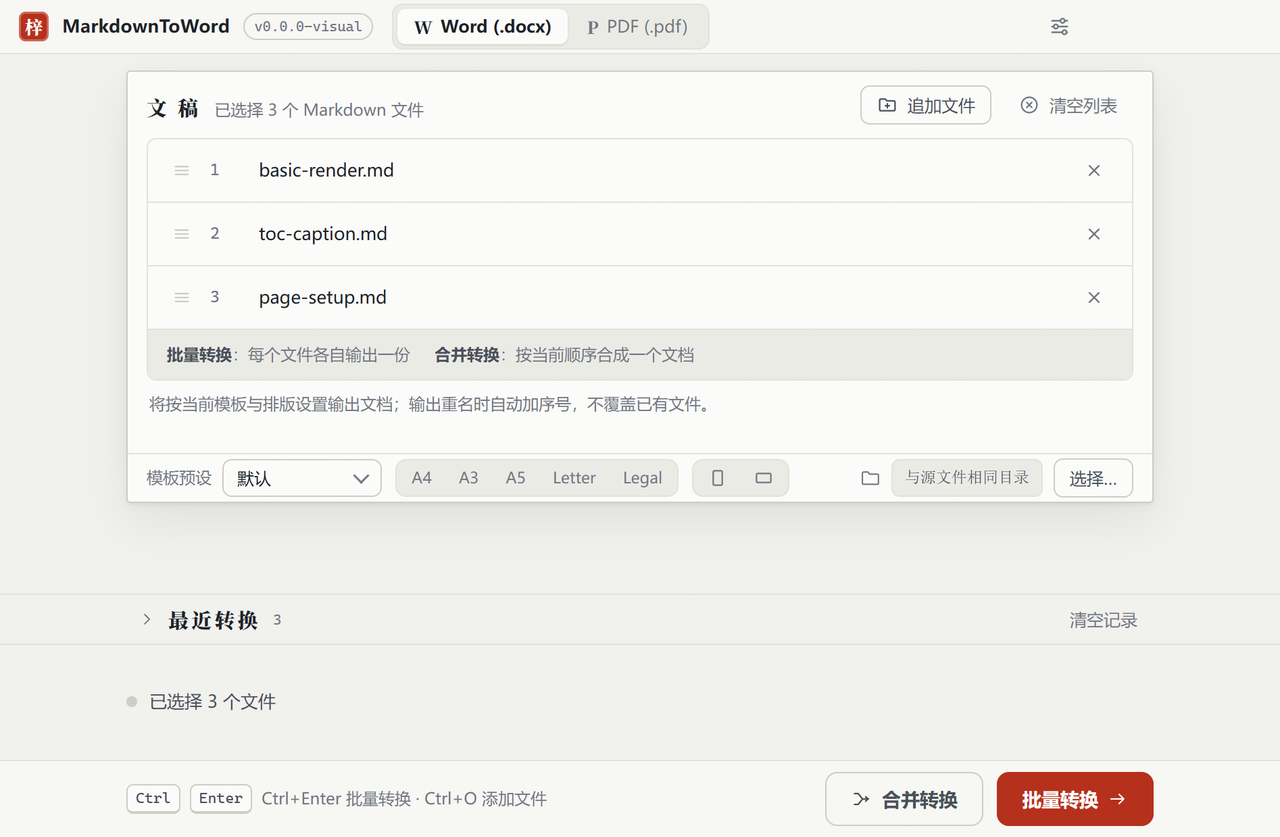
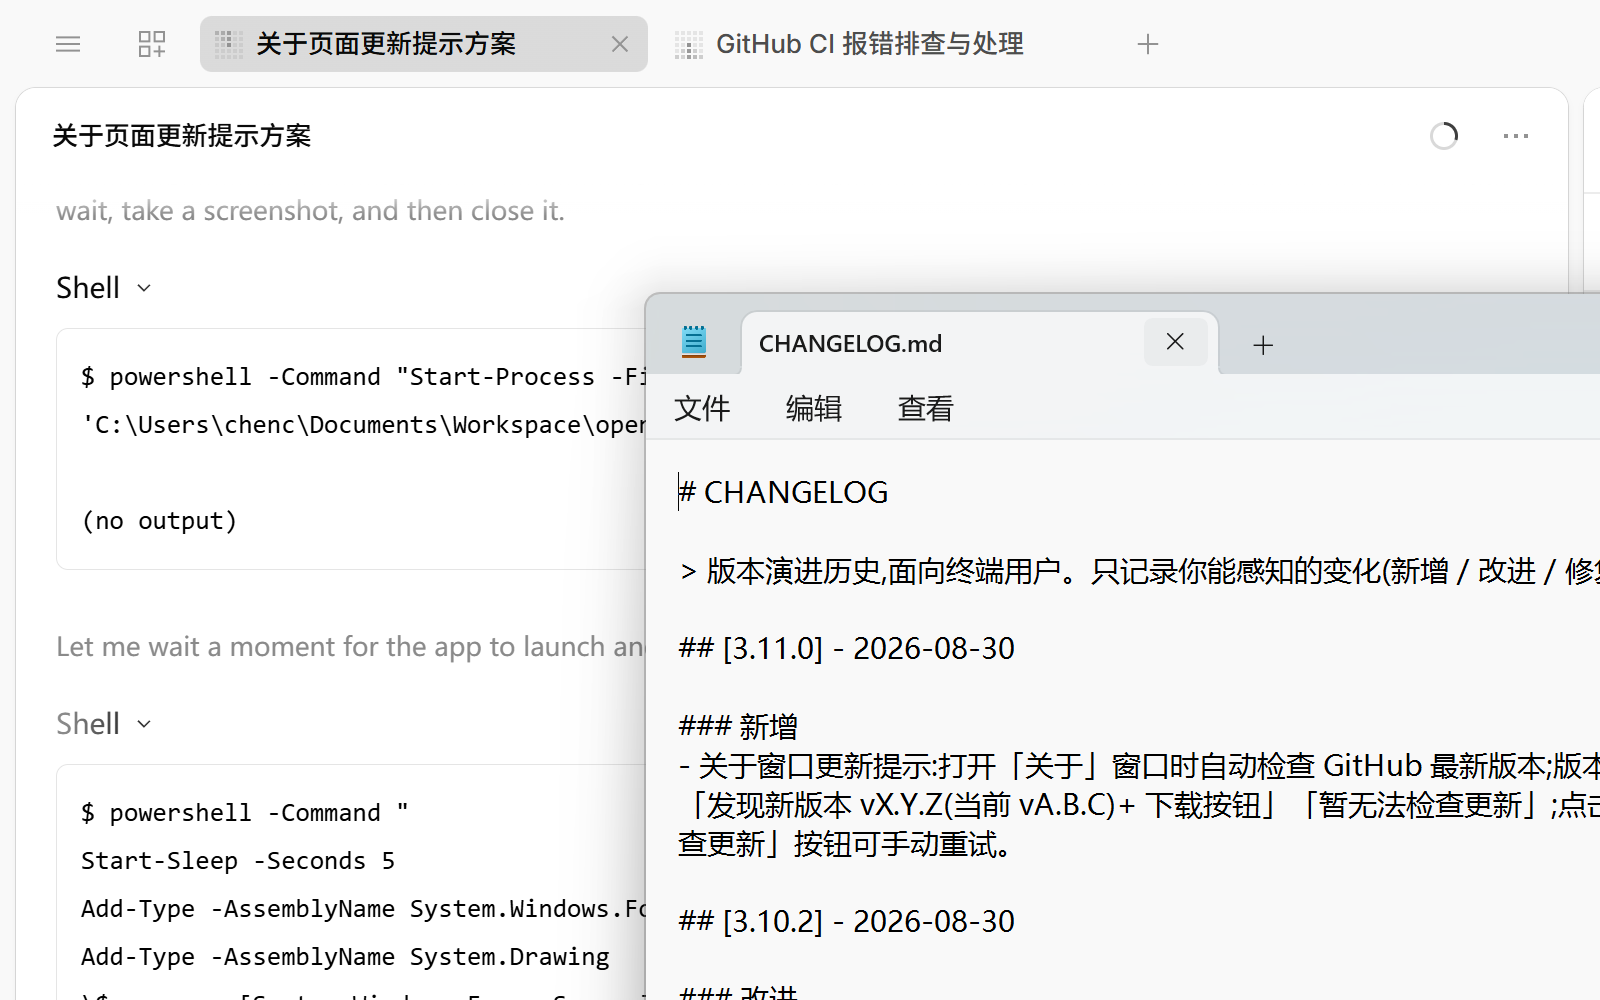
docs: 落地页功能卡重构——6核心+更多能力
- Features 区精简为6张核心卡片：本地离线、真docx输出、中文排版(含学术)、批量与合并、成书向导与剪贴板直转、智能兼容与模板导入
- 新增「更多能力」深色背景区：10项特色功能(学术排版/水印/预检/目录页码/暗色模式/多语言/模板预设/实时预览/首次引导/更新提示)
- Hero 标语补充新功能关键词(剪贴板直转/成书向导/AI清理/Obsidian兼容)
- 截图描述更新：空态强调剪贴板粘贴、最近转换强调一键重转
- 技术栈新增 AI Cleanup
- 截图更新(ui-main.png)

diff --git a/docs/index.html b/docs/index.html
@@ -281,9 +281,8 @@ html[data-active-lang="en"] [data-lang="en"].table-row{display:table-row}
 .feature-card:nth-child(2){animation-delay:.1s}
 .feature-card:nth-child(3){animation-delay:.15s}
 .feature-card:nth-child(4){animation-delay:.2s}
-.feature-card:nth-child(5){animation-delay:.2s}
-.feature-card:nth-child(6){animation-delay:.25s}
-.feature-card:nth-child(7){animation-delay:.3s}
+.feature-card:nth-child(5){animation-delay:.25s}
+.feature-card:nth-child(6){animation-delay:.3s}
 
 /* ===== Scroll reveal via IntersectionObserver ===== */
 .reveal{opacity:0;transform:translateY(24px);transition:opacity .55s ease-out,transform .55s ease-out}
@@ -309,8 +308,8 @@ html[data-active-lang="en"] [data-lang="en"].table-row{display:table-row}
     </span>
     <h1>Markdown<span>ToWord</span></h1>
     <p class="hero-tagline">
-      <span class="inline" data-lang="zh">Markdown 转 Word / PDF 的本地桌面工具。文件不上传，离线可用；输出真正的 .docx 文档，中文排版可控。</span>
-      <span class="inline" data-lang="en">A local desktop tool that converts Markdown to Word / PDF. No uploads, fully offline. Produces real .docx files with controllable Chinese typesetting.</span>
+      <span class="inline" data-lang="zh">Markdown 转 Word / PDF 的本地桌面工具。文件不上传，离线可用；输出真正的 .docx 文档，中文排版可控。支持剪贴板直转、七步成书向导、AI 清理、Obsidian 兼容。</span>
+      <span class="inline" data-lang="en">A local desktop tool that converts Markdown to Word / PDF. No uploads, fully offline. Produces real .docx files with controllable Chinese typesetting. Supports clipboard convert, book wizard, AI cleanup, and Obsidian compatibility.</span>
     </p>
     <div class="hero-actions">
       <a href="https://github.com/chenchaodev/markdown-to-word/releases/latest" class="btn btn-primary">
@@ -380,8 +379,8 @@ html[data-active-lang="en"] [data-lang="en"].table-row{display:table-row}
           <span class="inline" data-lang="en">Chinese Typesetting</span>
         </h3>
         <p>
-          <span class="inline" data-lang="zh">字体字号行距缩进、章节/题注/公式自动编号、目录、封面、页眉页脚页码，排版参数可逐项调节。</span>
-          <span class="inline" data-lang="en">Fonts, sizes, line spacing, indentation, auto-numbered headings/captions/equations, TOC, cover page, headers, footers, and page numbers — all adjustable.</span>
+          <span class="inline" data-lang="zh">字体字号行距缩进、章节/题注/公式自动编号、目录、封面、页眉页脚页码，排版参数可逐项调节。学术排版支持公式交叉引用与图/表/章节跳转。</span>
+          <span class="inline" data-lang="en">Fonts, sizes, line spacing, indentation, auto-numbered headings/captions/equations, TOC, cover page, headers, footers, and page numbers — all adjustable. Academic support includes equation cross-references and figure/table/section jumps.</span>
         </p>
       </div>
 
@@ -400,51 +399,122 @@ html[data-active-lang="en"] [data-lang="en"].table-row{display:table-row}
         </p>
       </div>
 
-      <!-- Card 5: Academic -->
+      <!-- Card 5: Book Wizard + Clipboard -->
       <div class="feature-card reveal">
         <div class="feature-icon">
-          <svg viewBox="0 0 24 24"><path d="M5 13.18v4L12 21l7-3.82v-4L12 17l-7-3.82zM12 3L1 9l11 6 9-4.91V17h2V9L12 3z"/></svg>
+          <svg viewBox="0 0 24 24"><path d="M19 3H5c-1.1 0-2 .9-2 2v14c0 1.1.9 2 2 2h14c1.1 0 2-.9 2-2V5c0-1.1-.9-2-2-2zm-5 14H7v-2h7v2zm3-4H7v-2h10v2zm0-4H7V7h10v2z"/></svg>
         </div>
         <h3>
-          <span class="inline" data-lang="zh">学术排版</span>
-          <span class="inline" data-lang="en">Academic Formatting</span>
+          <span class="inline" data-lang="zh">成书向导与剪贴板直转</span>
+          <span class="inline" data-lang="en">Book Wizard & Clipboard Convert</span>
         </h3>
         <p>
-          <span class="inline" data-lang="zh">公式（OMML / KaTeX）编号与交叉引用、图/表/章节引用跳转，适合论文与技术文档。</span>
-          <span class="inline" data-lang="en">Numbered equations (OMML/KaTeX) with cross-references, figure/table/section reference jumps — built for papers and technical docs.</span>
+          <span class="inline" data-lang="zh">七步引导式成书——串联模板预设、页眉页脚、水印、合并、封面页，全程无需打开设置面板。主界面空态「粘贴 Markdown 转换」，不必先存文件。</span>
+          <span class="inline" data-lang="en">Seven-step guided book creation — chain template presets, headers/footers, watermarks, merge, and cover pages without opening settings. Paste Markdown directly from clipboard on the empty state to convert without saving first.</span>
         </p>
       </div>
 
-<!-- Card 6: Dark mode & i18n -->
+      <!-- Card 6: AI cleanup + Obsidian + Template import -->
       <div class="feature-card reveal">
         <div class="feature-icon">
           <svg viewBox="0 0 24 24"><path d="M12 3c-4.97 0-9 4.03-9 9s4.03 9 9 9 9-4.03 9-9c0-.46-.04-.92-.1-1.36-.98 1.37-2.58 2.26-4.4 2.26-2.98 0-5.4-2.42-5.4-5.4 0-1.81.89-3.42 2.26-4.4-.44-.06-.9-.1-1.36-.1z"/></svg>
         </div>
         <h3>
-          <span class="inline" data-lang="zh">暗色模式与多语言</span>
-          <span class="inline" data-lang="en">Dark Mode & Multi-language</span>
+          <span class="inline" data-lang="zh">智能兼容与模板导入</span>
+          <span class="inline" data-lang="en">Smart Compat & Template Import</span>
         </h3>
         <p>
-          <span class="inline" data-lang="zh">三态暗色模式、界面多语言（中/英）、模板预设导入导出、自定义 PDF CSS、实时预览、最近转换记录。</span>
-          <span class="inline" data-lang="en">Three-state dark mode, multi-language UI (CN/EN), template presets with JSON import/export, custom PDF CSS, live preview, and recent conversions.</span>
+          <span class="inline" data-lang="zh">转换前 AI 自动规整智能引号、破折号、列表空格。自动转换 Obsidian 双链与嵌入。导入 Word 模板提取字体与页面设置。</span>
+          <span class="inline" data-lang="en">AI auto-normalizes smart quotes, em-dashes, and list spacing before conversion. Converts Obsidian wikilinks and embeds automatically. Import Word templates to extract fonts and page settings.</span>
         </p>
       </div>
 
-      <!-- Card 7: Update notification -->
-      <div class="feature-card reveal">
-        <div class="feature-icon">
-          <svg viewBox="0 0 24 24"><path d="M12 2C6.48 2 2 6.48 2 12s4.48 10 10 10 10-4.48 10-10S17.52 2 12 2zm1 15h-2v-2h2v2zm0-4h-2V7h2v6z"/></svg>
+    </div>
+  </div>
+</section>
+
+<!-- ===== More Capabilities ===== -->
+<section class="section" id="more" style="background:var(--hero-bg);color:var(--hero-ink);padding:var(--space-xl) 0 var(--space-2xl)">
+  <div class="container">
+    <span class="section-label reveal" style="color:var(--accent-active)">
+      <span class="inline" data-lang="zh">更多能力</span>
+      <span class="inline" data-lang="en">More Capabilities</span>
+    </span>
+    <h2 class="section-title reveal" style="color:var(--hero-ink)">
+      <span class="inline" data-lang="zh">持续打磨的细节</span>
+      <span class="inline" data-lang="en">Refined Details</span>
+    </h2>
+    <div class="more-grid reveal" style="display:grid;grid-template-columns:repeat(auto-fill,minmax(260px,1fr));gap:var(--space-sm) var(--space-lg);margin-top:var(--space-lg)">
+      <div class="more-item" style="display:flex;gap:var(--space-sm);align-items:flex-start">
+        <span style="color:var(--accent-active);font-weight:700;flex-shrink:0">+</span>
+        <div>
+          <span class="inline" data-lang="zh"><strong>学术排版</strong> · 公式（OMML/KaTeX）编号与交叉引用、图/表/章节引用跳转</span>
+          <span class="inline" data-lang="en"><strong>Academic</strong> · Numbered equations (OMML/KaTeX) with cross-references, figure/table/section jumps</span>
         </div>
-        <h3>
-          <span class="inline" data-lang="zh">更新提示</span>
-          <span class="inline" data-lang="en">Update Notification</span>
-        </h3>
-        <p>
-          <span class="inline" data-lang="zh">关于窗口自动检查 GitHub 最新版本；版本号下显示状态——已是最新、发现新版本含下载按钮、离线静默降级；提供手动重试。</span>
-          <span class="inline" data-lang="en">About window auto-checks GitHub for latest version; shows status under version badge — up to date, new version with download button, or offline silently; manual retry available.</span>
-        </p>
       </div>
-
+      <div class="more-item" style="display:flex;gap:var(--space-sm);align-items:flex-start">
+        <span style="color:var(--accent-active);font-weight:700;flex-shrink:0">+</span>
+        <div>
+          <span class="inline" data-lang="zh"><strong>文字水印</strong> · 控制文字、旋转角度、不透明度；Word 旋转置底、PDF 固定覆盖层</span>
+          <span class="inline" data-lang="en"><strong>Watermark</strong> · Custom text, rotation, opacity; Word uses rotated baseline, PDF uses fixed overlay</span>
+        </div>
+      </div>
+      <div class="more-item" style="display:flex;gap:var(--space-sm);align-items:flex-start">
+        <span style="color:var(--accent-active);font-weight:700;flex-shrink:0">+</span>
+        <div>
+          <span class="inline" data-lang="zh"><strong>转换预检</strong> · 转换前自动体检缺失本地图片、悬空交叉引用、未标注语言代码块</span>
+          <span class="inline" data-lang="en"><strong>Pre-check</strong> · Auto-checks for missing local images, dangling cross-references, unlabeled code blocks</span>
+        </div>
+      </div>
+      <div class="more-item" style="display:flex;gap:var(--space-sm);align-items:flex-start">
+        <span style="color:var(--accent-active);font-weight:700;flex-shrink:0">+</span>
+        <div>
+          <span class="inline" data-lang="zh"><strong>目录带页码</strong> · 静态/域两种模式，Word 与 PDF 均可生成带真实页码的目录</span>
+          <span class="inline" data-lang="en"><strong>TOC with Page Numbers</strong> · Static or field mode; Word and PDF both generate TOC with real page numbers</span>
+        </div>
+      </div>
+      <div class="more-item" style="display:flex;gap:var(--space-sm);align-items:flex-start">
+        <span style="color:var(--accent-active);font-weight:700;flex-shrink:0">+</span>
+        <div>
+          <span class="inline" data-lang="zh"><strong>暗色模式</strong> · 跟随系统 / 浅色 / 深色三态切换</span>
+          <span class="inline" data-lang="en"><strong>Dark Mode</strong> · Follow system / light / dark three-state toggle</span>
+        </div>
+      </div>
+      <div class="more-item" style="display:flex;gap:var(--space-sm);align-items:flex-start">
+        <span style="color:var(--accent-active);font-weight:700;flex-shrink:0">+</span>
+        <div>
+          <span class="inline" data-lang="zh"><strong>多语言界面</strong> · 中文 / English / 日本語三语切换</span>
+          <span class="inline" data-lang="en"><strong>Multi-language</strong> · Chinese / English / Japanese UI</span>
+        </div>
+      </div>
+      <div class="more-item" style="display:flex;gap:var(--space-sm);align-items:flex-start">
+        <span style="color:var(--accent-active);font-weight:700;flex-shrink:0">+</span>
+        <div>
+          <span class="inline" data-lang="zh"><strong>模板预设</strong> · 内置多套排版预设，支持 JSON 导入导出，自定义 PDF CSS</span>
+          <span class="inline" data-lang="en"><strong>Template Presets</strong> · Built-in layout presets, JSON import/export, custom PDF CSS</span>
+        </div>
+      </div>
+      <div class="more-item" style="display:flex;gap:var(--space-sm);align-items:flex-start">
+        <span style="color:var(--accent-active);font-weight:700;flex-shrink:0">+</span>
+        <div>
+          <span class="inline" data-lang="zh"><strong>实时预览</strong> · 转换前可预览源文件，跟随文件刷新；最近转换记录一键重转</span>
+          <span class="inline" data-lang="en"><strong>Live Preview</strong> · Preview source before conversion, auto-refresh; recent conversions with one-click re-convert</span>
+        </div>
+      </div>
+      <div class="more-item" style="display:flex;gap:var(--space-sm);align-items:flex-start">
+        <span style="color:var(--accent-active);font-weight:700;flex-shrink:0">+</span>
+        <div>
+          <span class="inline" data-lang="zh"><strong>首次引导</strong> · 首次启动出现选预设→向导→转换引导路径，可跳过</span>
+          <span class="inline" data-lang="en"><strong>First Launch Guide</strong> · Onboarding path: pick preset → wizard → convert; skippable</span>
+        </div>
+      </div>
+      <div class="more-item" style="display:flex;gap:var(--space-sm);align-items:flex-start">
+        <span style="color:var(--accent-active);font-weight:700;flex-shrink:0">+</span>
+        <div>
+          <span class="inline" data-lang="zh"><strong>更新提示</strong> · 关于窗口自动检查 GitHub 最新版本，发现新版本可一键下载</span>
+          <span class="inline" data-lang="en"><strong>Update Notification</strong> · About window auto-checks GitHub for latest version, one-click download</span>
+        </div>
+      </div>
     </div>
   </div>
 </section>
@@ -463,23 +533,23 @@ html[data-active-lang="en"] [data-lang="en"].table-row{display:table-row}
     <div class="ss-main reveal">
       <img src="images/ui-main.png" alt="Main window">
       <p class="ss-caption">
-        <span class="inline" data-lang="zh">主界面：选择文件 → 选择格式 → 开始转换</span>
-        <span class="inline" data-lang="en">Main window: pick files → choose format → convert</span>
+        <span class="inline" data-lang="zh">主界面：拖入或粘贴 Markdown → 选择格式 → 开始转换</span>
+        <span class="inline" data-lang="en">Main window: drag or paste Markdown → choose format → convert</span>
       </p>
     </div>
     <div class="ss-row">
       <div class="ss-item reveal">
-        <img src="images/ui-empty.png" alt="Empty state">
+        <img src="images/ui-empty.png" alt="Empty state with clipboard paste">
         <p class="ss-caption">
-          <span class="inline" data-lang="zh">空态界面</span>
-          <span class="inline" data-lang="en">Empty state</span>
+          <span class="inline" data-lang="zh">空态：支持粘贴剪贴板 Markdown 直接转换</span>
+          <span class="inline" data-lang="en">Empty state: paste Markdown from clipboard to convert directly</span>
         </p>
       </div>
       <div class="ss-item reveal">
         <img src="images/ui-history.png" alt="Recent conversions">
         <p class="ss-caption">
-          <span class="inline" data-lang="zh">最近转换面板</span>
-          <span class="inline" data-lang="en">Recent conversions panel</span>
+          <span class="inline" data-lang="zh">最近转换：一键重转历史文件</span>
+          <span class="inline" data-lang="en">Recent conversions: one-click re-convert</span>
         </p>
       </div>
     </div>
@@ -504,6 +574,7 @@ html[data-active-lang="en"] [data-lang="en"].table-row{display:table-row}
       <span class="tech-tag">Mermaid 11</span>
       <span class="tech-tag">highlight.js</span>
       <span class="tech-tag">pdf-lib</span>
+      <span class="tech-tag">AI Cleanup</span>
     </div>
   </div>
 </section>
